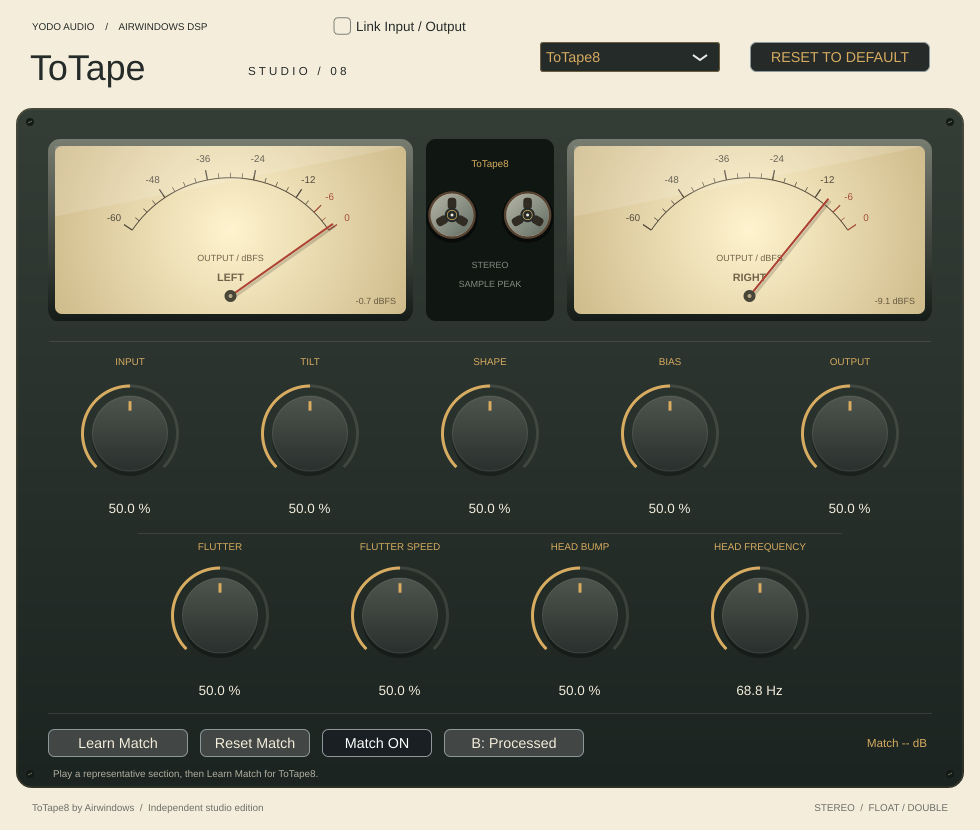
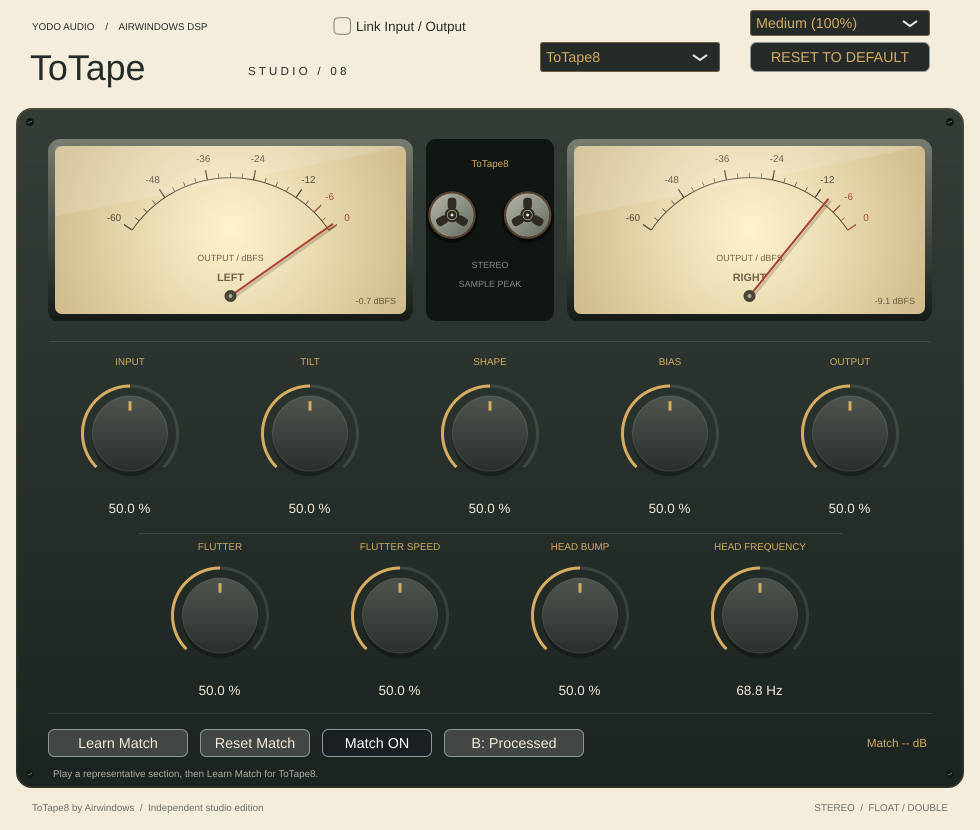
Add three session-persistent interface sizes to Tape

Changed region(s): [[0.7653, 0.0, 0.949, 0.0602]]

diff --git a/tests/PluginChecks.cpp b/tests/PluginChecks.cpp
@@ -80,13 +80,13 @@ void checkGainLink() {
     std::unique_ptr<juce::AudioProcessor> p(createPluginFilter());
     std::unique_ptr<juce::AudioProcessorEditor> editor(p->createEditor());
     juce::ComboBox* selector=nullptr; juce::ToggleButton* link=nullptr;
-    for(auto* child:editor->getChildren()) {
-        if(auto* combo=dynamic_cast<juce::ComboBox*>(child)) selector=combo;
+    for(auto* child:editor->getChildComponent(0)->getChildren()) {
+        if(auto* combo=dynamic_cast<juce::ComboBox*>(child);combo && combo->getName()=="Tape version") selector=combo;
         if(auto* toggle=dynamic_cast<juce::ToggleButton*>(child)) link=toggle;
     }
     require(selector && link,"Missing input/output link control");
     auto slider=[&](const juce::String& name) {
-        for(auto* child:editor->getChildren()) if(auto* v=dynamic_cast<juce::Slider*>(child);v && v->getName()==name) return v;
+        for(auto* child:editor->getChildComponent(0)->getChildren()) if(auto* v=dynamic_cast<juce::Slider*>(child);v && v->getName()==name) return v;
         throw std::runtime_error("Slider not found");
     };
     auto close=[](double a,double b) { return std::abs(a-b)<1.e-6; };
@@ -167,8 +167,65 @@ void checkGainLink() {
     compare<TapeEngine8,float>(*p,8,48000); compare<TapeEngine8,double>(*p,8,48000);
     compare<TapeEngine,float>(*p,9,48000); compare<TapeEngine,double>(*p,9,48000);
 }
+void checkSizes() {
+    std::unique_ptr<juce::AudioProcessor> p(createPluginFilter());
+    std::unique_ptr<juce::AudioProcessorEditor> editor(p->createEditor());
+    auto* panel=editor->getChildComponent(0);
+    auto* sizes=dynamic_cast<juce::ComboBox*>(panel->findChildWithID("uiSize"));
+    require(sizes && sizes->getNumItems()==3 && sizes->getSelectedId()==2,"Missing size menu/default");
+    juce::ComboBox* models=nullptr;
+    for(auto* child:panel->getChildren())
+        if(auto* combo=dynamic_cast<juce::ComboBox*>(child);combo && combo->getName()=="Tape version") models=combo;
+    require(models!=nullptr,"Missing model selector");
+    for(int id:{1,3,2}) {
+        sizes->setSelectedId(id,juce::sendNotificationSync);
+        const float scale=id==1?.75f:id==3?1.25f:1.f;
+        const int width=juce::roundToInt(980*scale),height=juce::roundToInt(830*scale);
+        require(editor->getWidth()==width && editor->getHeight()==height,"Incorrect scaled editor size");
+        for(int version:{7,8,9}) {
+            models->setSelectedId(version-6,juce::sendNotificationSync);
+            require(sizes->getSelectedId()==id,"Model switching changed UI size");
+            for(auto* child:panel->getChildren()) if(child->isVisible()) {
+                require(editor->getLocalBounds().contains(editor->getLocalArea(panel,child->getBounds())),"Scaled control outside editor");
+                const auto centre=editor->getLocalPoint(child,child->getLocalBounds().getCentre());
+                require(editor->getComponentAt(centre)!=editor.get(),"Scaled control hit testing failed");
+                if(auto* slider=dynamic_cast<juce::Slider*>(child)) {
+                    slider->setValue(.37,juce::sendNotificationSync);
+                    require(std::abs(slider->getValue()-.37)<1.e-6,"Scaled slider cannot be edited");
+                }
+            }
+            juce::Image image(juce::Image::ARGB,width,height,true);
+            juce::Graphics graphics(image); editor->paintEntireComponent(graphics,true);
+            auto file=juce::File::getCurrentWorkingDirectory().getChildFile("ui-size-"+juce::String(id)+"-model-"+juce::String(version)+".png");
+            auto out=file.createOutputStream(); require(out!=nullptr,"Cannot save size preview");
+            out->setPosition(0); out->truncate();
+            require(juce::PNGImageFormat().writeImageToStream(image,*out),"Cannot render scaled editor");
+        }
+        juce::MemoryBlock saved; p->getStateInformation(saved);
+        std::unique_ptr<juce::AudioProcessor> restored(createPluginFilter());
+        restored->setStateInformation(saved.getData(),static_cast<int>(saved.getSize()));
+        std::unique_ptr<juce::AudioProcessorEditor> recalled(restored->createEditor());
+        require(recalled->getWidth()==width && recalled->getHeight()==height,"Session lost UI size");
+        editor.reset(); editor.reset(p->createEditor());
+        panel=editor->getChildComponent(0);
+        sizes=dynamic_cast<juce::ComboBox*>(panel->findChildWithID("uiSize"));
+        for(auto* child:panel->getChildren())
+            if(auto* combo=dynamic_cast<juce::ComboBox*>(child);combo && combo->getName()=="Tape version") models=combo;
+        require(sizes && sizes->getSelectedId()==id,"Reopening editor lost UI size");
+    }
+    // An older session overrides any previously selected size with Medium.
+    sizes->setSelectedId(3,juce::sendNotificationSync);
+    juce::MemoryBlock saved; p->getStateInformation(saved);
+    auto xml=juce::AudioProcessor::getXmlFromBinary(saved.getData(),static_cast<int>(saved.getSize()));
+    xml->removeAttribute("uiSize");
+    juce::AudioProcessor::copyXmlToBinary(*xml,saved);
+    p->setStateInformation(saved.getData(),static_cast<int>(saved.getSize()));
+    editor.reset(); editor.reset(p->createEditor());
+    require(editor->getWidth()==980 && editor->getHeight()==830,"Legacy session did not default to Medium");
+}
 int main() {
     try {
+        checkSizes();
         checkMeterDamping();
         juce::ScopedJuceInitialiser_GUI init;
         checkGainLink();
@@ -217,7 +274,7 @@ int main() {
         std::unique_ptr<juce::AudioProcessorEditor> editor(p->createEditor());
         require(editor->getWidth()==980 && editor->getHeight()==830,"Wrong editor size");
         int meterCount=0;
-        for(auto* child:editor->getChildren()) if(auto* meter=dynamic_cast<OutputMeter*>(child)) {
+        for(auto* child:editor->getChildComponent(0)->getChildren()) if(auto* meter=dynamic_cast<OutputMeter*>(child)) {
             const int channel=meter->getTitle().endsWith("LEFT")?0:1;
             require(editor->getLocalBounds().contains(meter->getBounds()),"Meter outside editor");
             require(std::abs(meter->getLevelDb()-expectedMeterDb[channel])<1.e-5f,"Analogue meter does not match actual channel output");
@@ -226,8 +283,8 @@ int main() {
         require(meterCount==2,"Missing stereo analogue meters");
         p->releaseResources();
         juce::ComboBox* selector=nullptr; juce::TextButton* reset=nullptr;
-        for(auto* child:editor->getChildren()) {
-            if(auto* combo=dynamic_cast<juce::ComboBox*>(child)) selector=combo;
+        for(auto* child:editor->getChildComponent(0)->getChildren()) {
+            if(auto* combo=dynamic_cast<juce::ComboBox*>(child);combo && combo->getName()=="Tape version") selector=combo;
             if(auto* button=dynamic_cast<juce::TextButton*>(child); button && button->getComponentID()=="resetParameters") reset=button;
         }
         require(selector && reset && selector->getNumItems()==3,"Missing version selector/reset");
@@ -235,7 +292,7 @@ int main() {
             selector->setSelectedId(version-6,juce::sendNotificationSync);
             require(parameter(*p,"version").getValue()==static_cast<float>(version-7)*.5f,"Selector not bound");
             int count=0;
-            for(auto* child:editor->getChildren()) if(auto* slider=dynamic_cast<juce::Slider*>(child);slider && slider->isVisible()) {
+            for(auto* child:editor->getChildComponent(0)->getChildren()) if(auto* slider=dynamic_cast<juce::Slider*>(child);slider && slider->isVisible()) {
                 require(editor->getLocalBounds().contains(slider->getBounds()),"Control outside editor");
                 require(slider->getName()==controls::name(version,count),"Wrong version control");
                 slider->setValue(.37,juce::sendNotificationSync);
@@ -245,7 +302,7 @@ int main() {
             require(count==controls::count(version),"Incorrect visible control count");
             reset->onClick();
             for(int i=0;i<count;++i) require(parameter(*p,controls::id(version,i)).getValue()==.5f,"Reset failed");
-            for(auto* child:editor->getChildren()) if(auto* slider=dynamic_cast<juce::Slider*>(child);slider && slider->isVisible())
+            for(auto* child:editor->getChildComponent(0)->getChildren()) if(auto* slider=dynamic_cast<juce::Slider*>(child);slider && slider->isVisible())
                 require(slider->getTextFromValue(slider->getValue())==(slider->getName()=="Head frequency"?"68.8 Hz":"50.0 %"),"Wrong displayed default");
             savePreview(*editor,version);
             parameter(*p,controls::id(version,0)).setValueNotifyingHost(static_cast<float>(version)*.1f);

diff --git a/Source/Plugin.cpp b/Source/Plugin.cpp
@@ -155,6 +155,7 @@ public:
     juce::AudioProcessorEditor* createEditor() override;
     void getStateInformation(juce::MemoryBlock& dst) override {
         auto saved=state.copyState();
+        saved.setProperty("uiSize",uiSize.load(),nullptr);
         for(int version=7;version<=9;++version) {
             const auto prefix="v"+juce::String(version)+"_";
             const auto& match=matches[static_cast<size_t>(version-7)];
@@ -169,6 +170,7 @@ public:
         if(auto xml=getXmlFromBinary(data,size); xml && xml->hasTagName(state.state.getType()))
         {
             auto restored=juce::ValueTree::fromXml(*xml);
+            uiSize=juce::jlimit(1,3,static_cast<int>(restored.getProperty("uiSize",2)));
             // Legacy ToTape9 sessions have no version or extra banks. Supply defaults
             // even when loading into an instance that previously selected another version.
             for(const auto& child:defaults) {
@@ -209,6 +211,7 @@ public:
     std::atomic<float> progress{0};
     std::atomic<int> command{0};
     std::atomic<uint32_t> matchRevision{0};
+    std::atomic<int> uiSize{2};
     juce::AudioProcessorValueTreeState state;
     std::atomic<float> peaks[2]{};
     std::atomic<uint32_t> meterSequence{0};
@@ -290,9 +293,9 @@ public:
 };
 }
 
-class TapeEditor final : public juce::AudioProcessorEditor, private juce::Timer {
+class TapePanel final : public juce::Component, private juce::Timer {
 public:
-    explicit TapeEditor(TapeProcessor& p) : AudioProcessorEditor(p), processor(p) {
+    explicit TapePanel(TapeProcessor& p) : processor(p) {
         setLookAndFeel(&look);
         for(size_t i=0;i<knobs.size();++i) {
             auto& slider=knobs[i]; addAndMakeVisible(slider);
@@ -357,10 +360,27 @@ public:
         }
         leftMeter.setLevelDb(ballistics[0].getLevelDb()); rightMeter.setLevelDb(ballistics[1].getLevelDb());
         lastMeterTime=juce::Time::getMillisecondCounterHiRes();
+        addAndMakeVisible(sizeChoice);
+        sizeChoice.setComponentID("uiSize"); sizeChoice.setName("Interface size");
+        sizeChoice.setTooltip("Interface size: Small 75%, Medium 100%, or Large 125%.");
+        sizeChoice.addItem("Small (75%)",1);
+        sizeChoice.addItem("Medium (100%)",2);
+        sizeChoice.addItem("Large (125%)",3);
+        sizeChoice.setColour(juce::ComboBox::backgroundColourId,style::ink);
+        sizeChoice.setColour(juce::ComboBox::textColourId,style::gold);
+        sizeChoice.setColour(juce::ComboBox::outlineColourId,style::gold.withAlpha(.4f));
+        sizeChoice.setSelectedId(processor.uiSize.load(),juce::dontSendNotification);
+        sizeChoice.onChange=[this] {
+            processor.uiSize=sizeChoice.getSelectedId();
+            processor.updateHostDisplay(juce::AudioProcessor::ChangeDetails{}.withNonParameterStateChanged(true));
+            if(sizeChanged) sizeChanged();
+        };
         setSize(980,830); startTimerHz(60);
     }
-    ~TapeEditor() override { stopTimer(); setLookAndFeel(nullptr); }
+    ~TapePanel() override { stopTimer(); setLookAndFeel(nullptr); }
+    std::function<void()> sizeChanged;
     void resized() override {
+        sizeChoice.setBounds(750,10,180,26);
         const int top[]{0,1,2,5,8},bottom[]{3,4,6,7,9};
         for(int j=0;j<5;++j) knobs[static_cast<size_t>(top[j])].setBounds(48+j*180,370,164,150);
         const auto columns=shownVersion==7?5:4;
@@ -483,6 +503,10 @@ private:
         g.setColour(cream); g.fillEllipse(x-4,y-4,8,8);
     }
     void timerCallback() override {
+        if(sizeChoice.getSelectedId()!=processor.uiSize.load()) {
+            sizeChoice.setSelectedId(processor.uiSize.load(),juce::dontSendNotification);
+            if(sizeChanged) sizeChanged();
+        }
         bindVersion(processor.selectedVersion());
         refreshMatch();
         const auto now=juce::Time::getMillisecondCounterHiRes();
@@ -508,7 +532,7 @@ private:
     std::array<std::unique_ptr<juce::AudioProcessorValueTreeState::SliderAttachment>,10> attachments;
     juce::ToggleButton linkToggle;
     std::unique_ptr<GainLinkAttachment> gainLinkAttachment;
-    juce::ComboBox selector;
+    juce::ComboBox selector,sizeChoice;
     std::unique_ptr<juce::AudioProcessorValueTreeState::ComboBoxAttachment> selectorAttachment;
     int shownVersion=0;
     juce::TextButton reset;
@@ -521,6 +545,25 @@ private:
     uint32_t lastMeterSequence=0;
     double lastMeterTime=0,idleSeconds=0;
     float angle=0;
+};
+// Keep logical layout and hit testing together; host/HiDPI scaling remains independent.
+class TapeEditor final : public juce::AudioProcessorEditor {
+public:
+    explicit TapeEditor(TapeProcessor& p) : AudioProcessorEditor(p), processor(p), panel(p) {
+        addAndMakeVisible(panel);
+        setResizable(false,false);
+        panel.sizeChanged=[this] { applySize(); };
+        applySize();
+    }
+private:
+    void applySize() {
+        const float scale=processor.uiSize.load()==1?.75f:processor.uiSize.load()==3?1.25f:1.f;
+        panel.setTransform(juce::AffineTransform::scale(scale));
+        panel.setBounds(0,0,980,830);
+        setSize(juce::roundToInt(980*scale),juce::roundToInt(830*scale));
+    }
+    TapeProcessor& processor;
+    TapePanel panel;
 };
 juce::AudioProcessorEditor* TapeProcessor::createEditor() { return new TapeEditor(*this); }
 juce::AudioProcessor* JUCE_CALLTYPE createPluginFilter() { return new TapeProcessor; }

diff --git a/tests/LevelMatchChecks.cpp b/tests/LevelMatchChecks.cpp
@@ -25,12 +25,12 @@ struct UI {
     std::unique_ptr<juce::AudioProcessorEditor> editor;
     explicit UI(juce::AudioProcessor& p):editor(p.createEditor()) {}
     juce::Component& component(const char* id) {
-        for(auto* c:editor->getChildren()) if(c->getComponentID()==id) return *c;
+        for(auto* c:editor->getChildComponent(0)->getChildren()) if(c->getComponentID()==id) return *c;
         throw std::runtime_error("Missing UI component");
     }
     void click(const char* id) { dynamic_cast<juce::TextButton&>(component(id)).onClick(); }
     void select(int version) {
-        for(auto* c:editor->getChildren()) if(auto* combo=dynamic_cast<juce::ComboBox*>(c)) combo->setSelectedId(version-6,juce::sendNotificationSync);
+        for(auto* c:editor->getChildComponent(0)->getChildren()) if(auto* combo=dynamic_cast<juce::ComboBox*>(c);combo && combo->getName()=="Tape version") combo->setSelectedId(version-6,juce::sendNotificationSync);
     }
     void refresh(int version) { select(version==7?8:7); select(version); }
 };

diff --git a/README.md b/README.md
@@ -7,6 +7,11 @@ Airwindows release.
 
 ![Native plugin editor](docs/ui-preview.png)
 
+Choose **Small (75%)**, **Medium (100%)**, or **Large (125%)** from the size menu
+at the top right. The whole interface scales proportionally for all three tape
+models. The size is saved per plugin instance with the session and retained when
+reopening the editor. Older sessions open at Medium, the original size.
+
 Choose **ToTape7**, **ToTape8**, or **ToTape9** from the selector at the top.
 The controls update to the original parameters of that version. Each version has
 its own automatable parameter bank, retained when switching and saved with the
